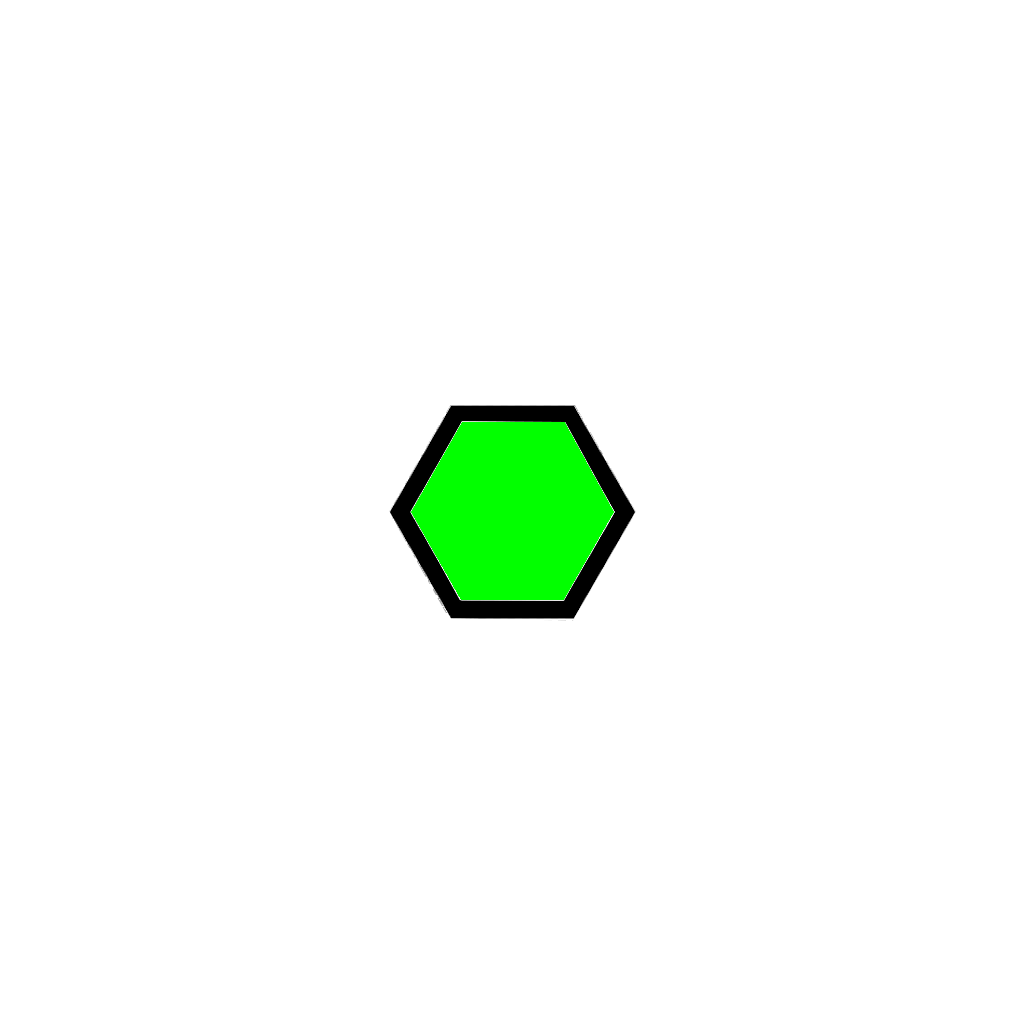
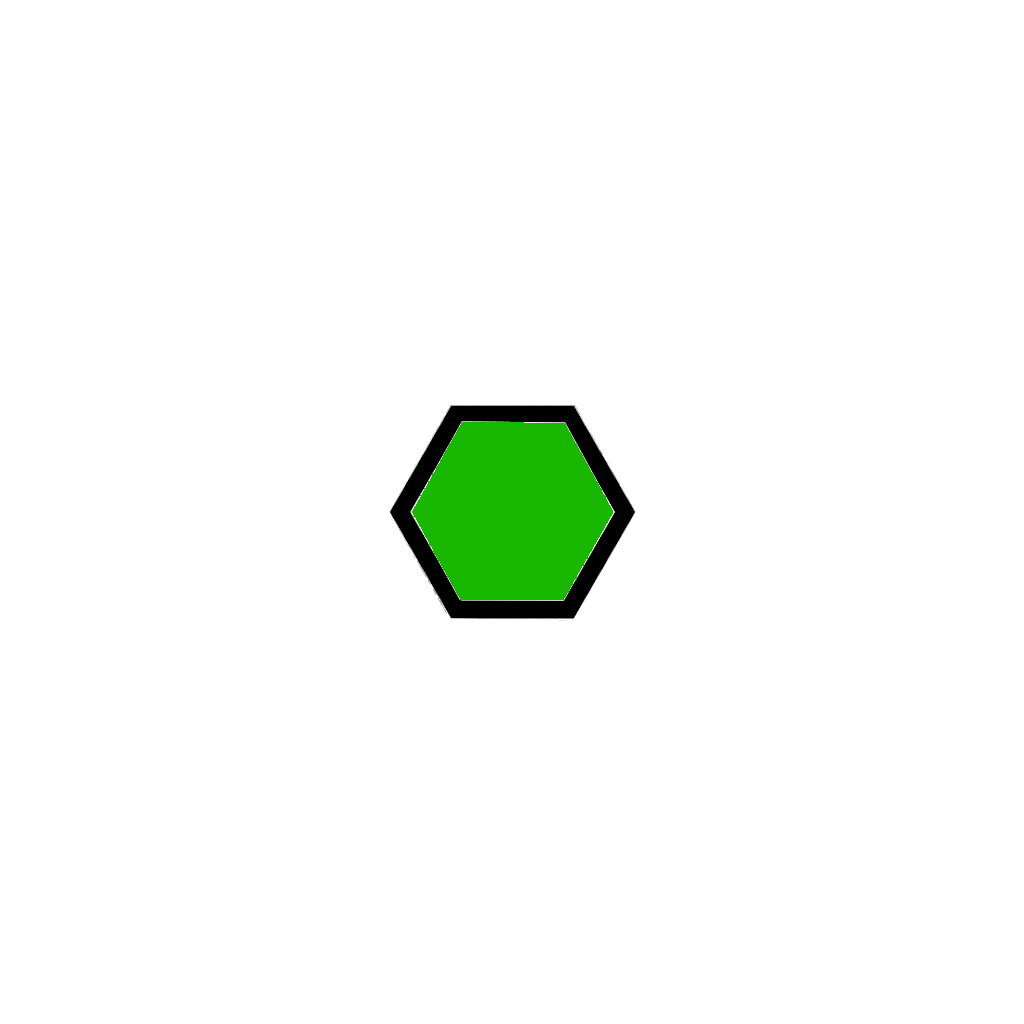
Adjestments in the color of the tiles

Changed region(s): [[0.4062, 0.4062, 0.5938, 0.5938]]

diff --git a/TP3/MyGameBoard.js b/TP3/MyGameBoard.js
@@ -32,7 +32,7 @@ class MyGameBoard {
         this.selectedTileAppearance.setEmission(0.5,0.5,0.5,1); // Emissive RGB/ Emissive RGB
         this.selectedTileAppearance.setShininess(10); 
 
-        this.texture2 = new CGFtexture(this.scene, "./scenes/images/tiles/blue_tile.png");
+        this.texture2 = new CGFtexture(this.scene, "./scenes/images/tiles/selected_tile.png");
         this.selectedTileAppearance.setTexture(this.texture2);
         this.selectedTileAppearance.setTextureWrap('REPEAT', 'REPEAT');
         this.selectedTileAppearance.apply();
